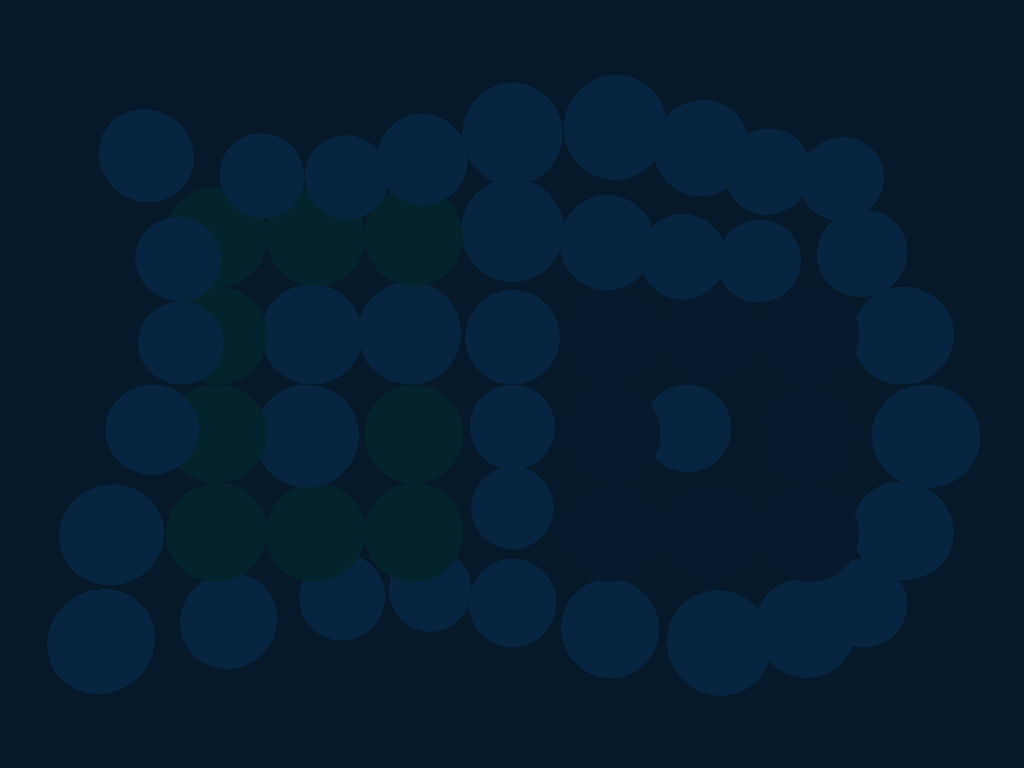
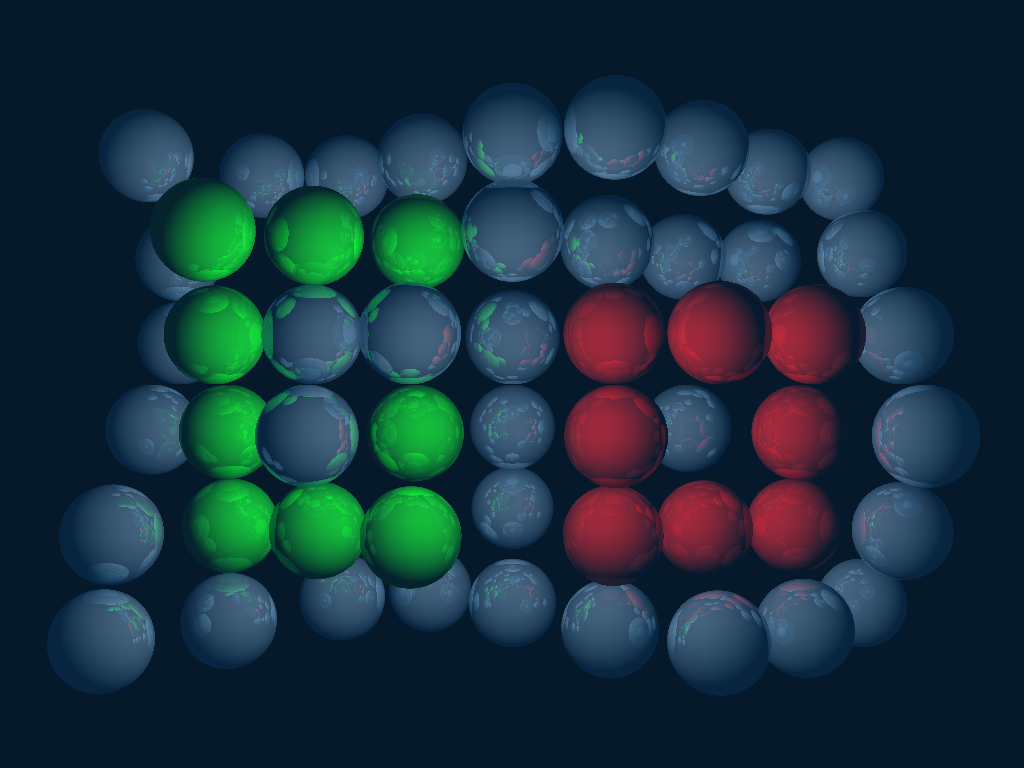
It works!!! Now for the lighting

diff --git a/src/main.rs b/src/main.rs
@@ -112,7 +112,7 @@ impl Vector3D {
 }
 
 // Material properties and color
-#[derive(Clone, Copy)]
+#[derive(Clone, Copy, Debug)]
 struct Material {
     specular: f64,
     diffusive: f64,
@@ -121,7 +121,7 @@ struct Material {
 }
 
 // Sphere
-#[derive(Copy, Clone)]
+#[derive(Copy, Clone, Debug)]
 struct PrimSphere {
     position: Vector3D,
     radius: f64,
@@ -135,7 +135,7 @@ struct Ray {
     origin: Vector3D,
 }
 
-#[derive(Clone, Debug)]
+#[derive(Clone)]
 // Light source
 struct Light {
     position: Vector3D,
@@ -165,18 +165,16 @@ impl PrimSphere{
 		return ret;
 	}
 
-	fn intersect(&self, ray: Ray, dist: f64) -> u32 {
+	fn intersect(&self, ray: Ray, dist: &mut f64) -> i32 {
 		let mut v_precalc = ray.origin;
 		v_precalc.v3d_sub(self.position);
-
-		let mut dist = dist;
 
 		let det_precalc: f64 = self.radius * self.radius - v_precalc.v3d_dot_mul(v_precalc);
 
 		let b = - v_precalc.v3d_dot_mul(ray.direction);
 		let mut det = b*b + det_precalc;
 
-		let mut retval: u32 = 0;
+		let mut retval: i32 = 0;
 
 		if det > 0.0 {
 			det = det.sqrt();
@@ -184,11 +182,11 @@ impl PrimSphere{
 			let i2 = b + det;
 
 			if i2 > 0.0 && i1 < 0.0 {
-				retval = 1;
-				dist = i2;
+				retval = -1;
+				*dist = i2;
 			} else if i2 > 0.0 && i1 >= 0.0 {
 				retval = 1;
-				dist = i1;
+				*dist = i1;
 			}
 		}
 
@@ -219,8 +217,6 @@ fn add_light(pos: Vector3D, color: Vector3D, globals: &mut GlobalSettings) {
         globals.light_list.push(l);
         globals.light_count += 1;
     }
-    dbg!(globals.light_count);
-    println!("{:?}", globals.light_list);
 }
 
 fn trace(ray: Ray, refl_depth: u32, globals: &mut GlobalSettings) -> Vector3D{
@@ -230,10 +226,10 @@ fn trace(ray: Ray, refl_depth: u32, globals: &mut GlobalSettings) -> Vector3D{
 		let mut prim: Option<PrimSphere> = None;
 
 		for i in 0..globals.primitive_count {
-			let temp_dist: f64 = 0.0;
+			let mut temp_dist: f64 = 0.0;
 			let p = globals.primitive_list[i as usize];
 
-			let res = p.intersect(ray, temp_dist);
+			let res = p.intersect(ray, &mut temp_dist);
 
 			if res == 0 {
 				continue;
@@ -455,11 +451,11 @@ fn main() {
 
             match sphere_pos_map[j][i] {
                 'g' => {
-                    z += -0.5;
+                    z += -0.5 - sn * 0.4;
                     m = &green;
                 }
                 'r' => {
-                    z += -0.5;
+                    z += -0.5 - sn * 0.4;
                     m = &red;
                 }
 
